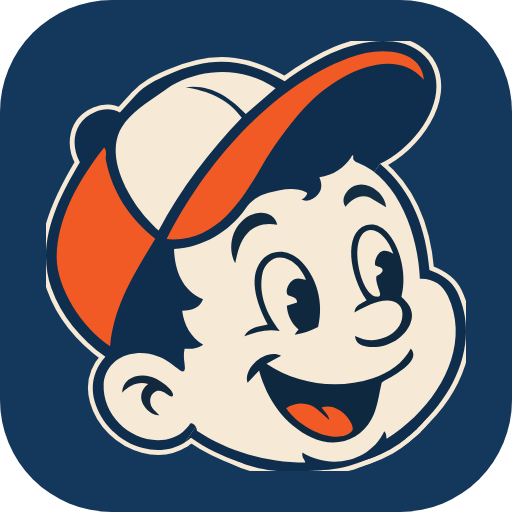
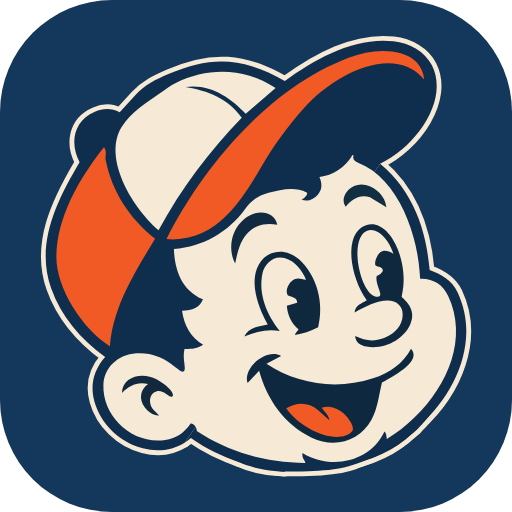
Fix the clipped head outline; add Facebook cover photos
Outline (the real cause this time)
- The head's artwork bounding box is EXACTLY its viewBox: 0,0 -> 880.88,
  902.63. It touches all four edges. So the cream halo, grown 10 units
  outward, fell outside the canvas and was clipped off flat at the top,
  the left, the right and the bottom — which is precisely where the flat
  spots appeared (cap, left edge, cheek, under the chin), while the
  diagonal stretches in between looked correct.
- The round-joined-stroke geometry was right; it was being cropped.
  Widened the knockout's viewBox by the halo radius plus a little air,
  and noted in the file that it must grow if the radius ever changes.
- Regenerated pfp-head-navy.png and icon / apple-icon / logo-icon, with
  the render sizes nudged to keep the head the same size in frame.

Facebook covers
- fb-cover-cream / -areas / -white at 1640x624, logo only, no mascot.
- Facebook displays a cover at 820x312 on desktop but 640x360 on a
  phone, scaling to cover — which crops ~133px off each side. All three
  keep their content inside the centre 555px, verified by scanning the
  rendered pixels rather than by eye.
- Added a Facebook cover section to brand-kit.html.

diff --git a/public/brand-kit.html b/public/brand-kit.html
@@ -31,6 +31,8 @@
   .card{background:#fff;border:2px solid var(--navy);border-radius:10px;overflow:hidden;
         box-shadow:3px 3px 0 var(--navy);display:flex;flex-direction:column}
   .card .shot{display:block;width:100%;aspect-ratio:1;border-radius:50%;}
+  .grid.wide{grid-template-columns:1fr}
+  .grid.wide .shot{aspect-ratio:1640/624;border-radius:0;border-bottom:2px solid var(--navy)}
   .card .pad{padding:10px;display:flex;flex-direction:column;gap:8px;align-items:center}
   .card .name{font-family:"Barlow Condensed",sans-serif;font-weight:700;font-size:11.5px;
               letter-spacing:.08em;text-transform:uppercase;text-align:center;line-height:1.3}
@@ -72,6 +74,14 @@
      the whole rod and hook in, which looks good large but gets small and busy as a profile picture.</p>
   <div class="grid" id="g-mascot"></div>
 
+  <h2>Facebook cover photo</h2>
+  <p class="note">The logo on its own, no mascot. These are 1640 × 624 —
+     Facebook’s cover size at double resolution so it stays sharp. The logo is
+     kept well inside the middle of the picture on purpose: Facebook crops the
+     <em>sides</em> off a cover on phones, and anything out near the edges
+     disappears. Nothing here will get cut.</p>
+  <div class="grid wide" id="g-cover"></div>
+
   <h2>Full logo</h2>
   <p class="note">Great for a cover photo or a post. As a profile picture the words
      “Junk Removal” end up too small to read.</p>
@@ -79,7 +89,7 @@
 </div>
 
 <footer>
-  Every file is a 1080 × 1080 square with the artwork sized to sit inside the circle
+  Profile pictures are 1080 × 1080 squares with the artwork sized to sit inside the circle
   Facebook and Instagram crop to — upload them as they are, no cropping needed.<br>
   The circles above show exactly how each one will look.
 </footer>
@@ -92,7 +102,9 @@ const sets = {
   'g-lockup': [['pfp-lockup-cream','Head + name · cream',1],['pfp-lockup-white','Head + name · white']],
   'g-mascot': [['pfp-mascot-cream','Close-up · cream'],['pfp-mascot-orange','Close-up · orange'],
                ['pfp-mascot-full-cream','Whole rod · cream'],['pfp-mascot-full-orange','Whole rod · orange']],
-  'g-logo':   [['pfp-logo-cream','Full logo · cream']]
+  'g-logo':   [['pfp-logo-cream','Full logo · cream']],
+  'g-cover':  [['fb-cover-cream','Cover · cream',1],['fb-cover-cream-areas','Cover · cream + service areas'],
+               ['fb-cover-white','Cover · white']]
 };
 for (const [id, items] of Object.entries(sets)) {
   document.getElementById(id).innerHTML = items.map(([file, label, best]) => `

diff --git a/public/images/brand/social/README.md b/public/images/brand/social/README.md
@@ -21,6 +21,18 @@ downloaded on a phone straight from the live site.
   pfp-mascot-full-orange.png   full mascot, whole rod and hook visible
   pfp-logo-cream.png           the complete logo, cream
 
+Facebook cover photos — 1640 x 624 (2x of Facebook's 820 x 312):
+
+  fb-cover-cream.png           logo only, salt cream
+  fb-cover-cream-areas.png     logo + the five service areas, salt cream
+  fb-cover-white.png           logo only, white
+
+Facebook shows a cover at 820x312 on desktop but 640x360 on a phone, and it
+scales to COVER that shorter, narrower box — which lops roughly 133px off each
+side. Everything in these files is kept inside the centre 555px (68%) so no
+part of the logo is ever cropped. If you edit one, keep content inside that
+band or it will get cut on phones.
+
 The mascot is mostly navy, so he disappears on a navy background —
 that's why there is no navy version of the full-mascot files.
 
